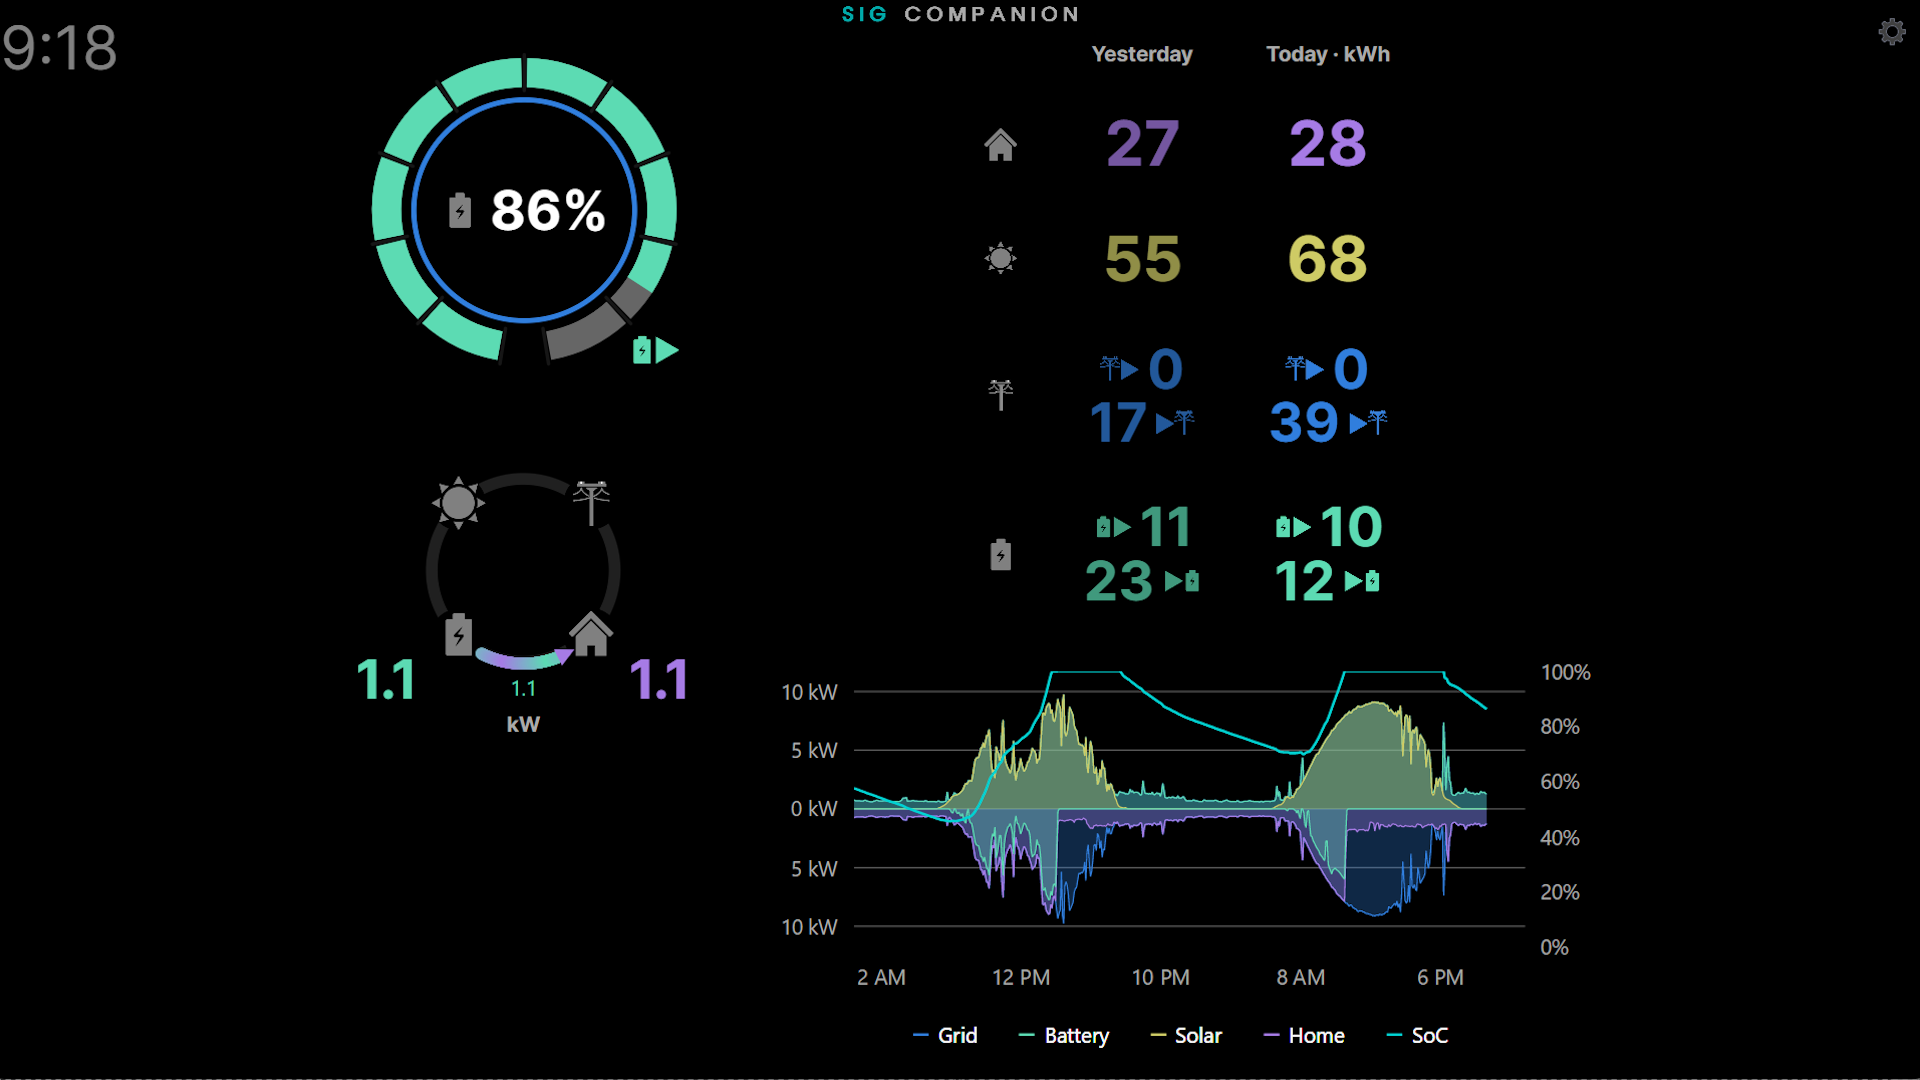
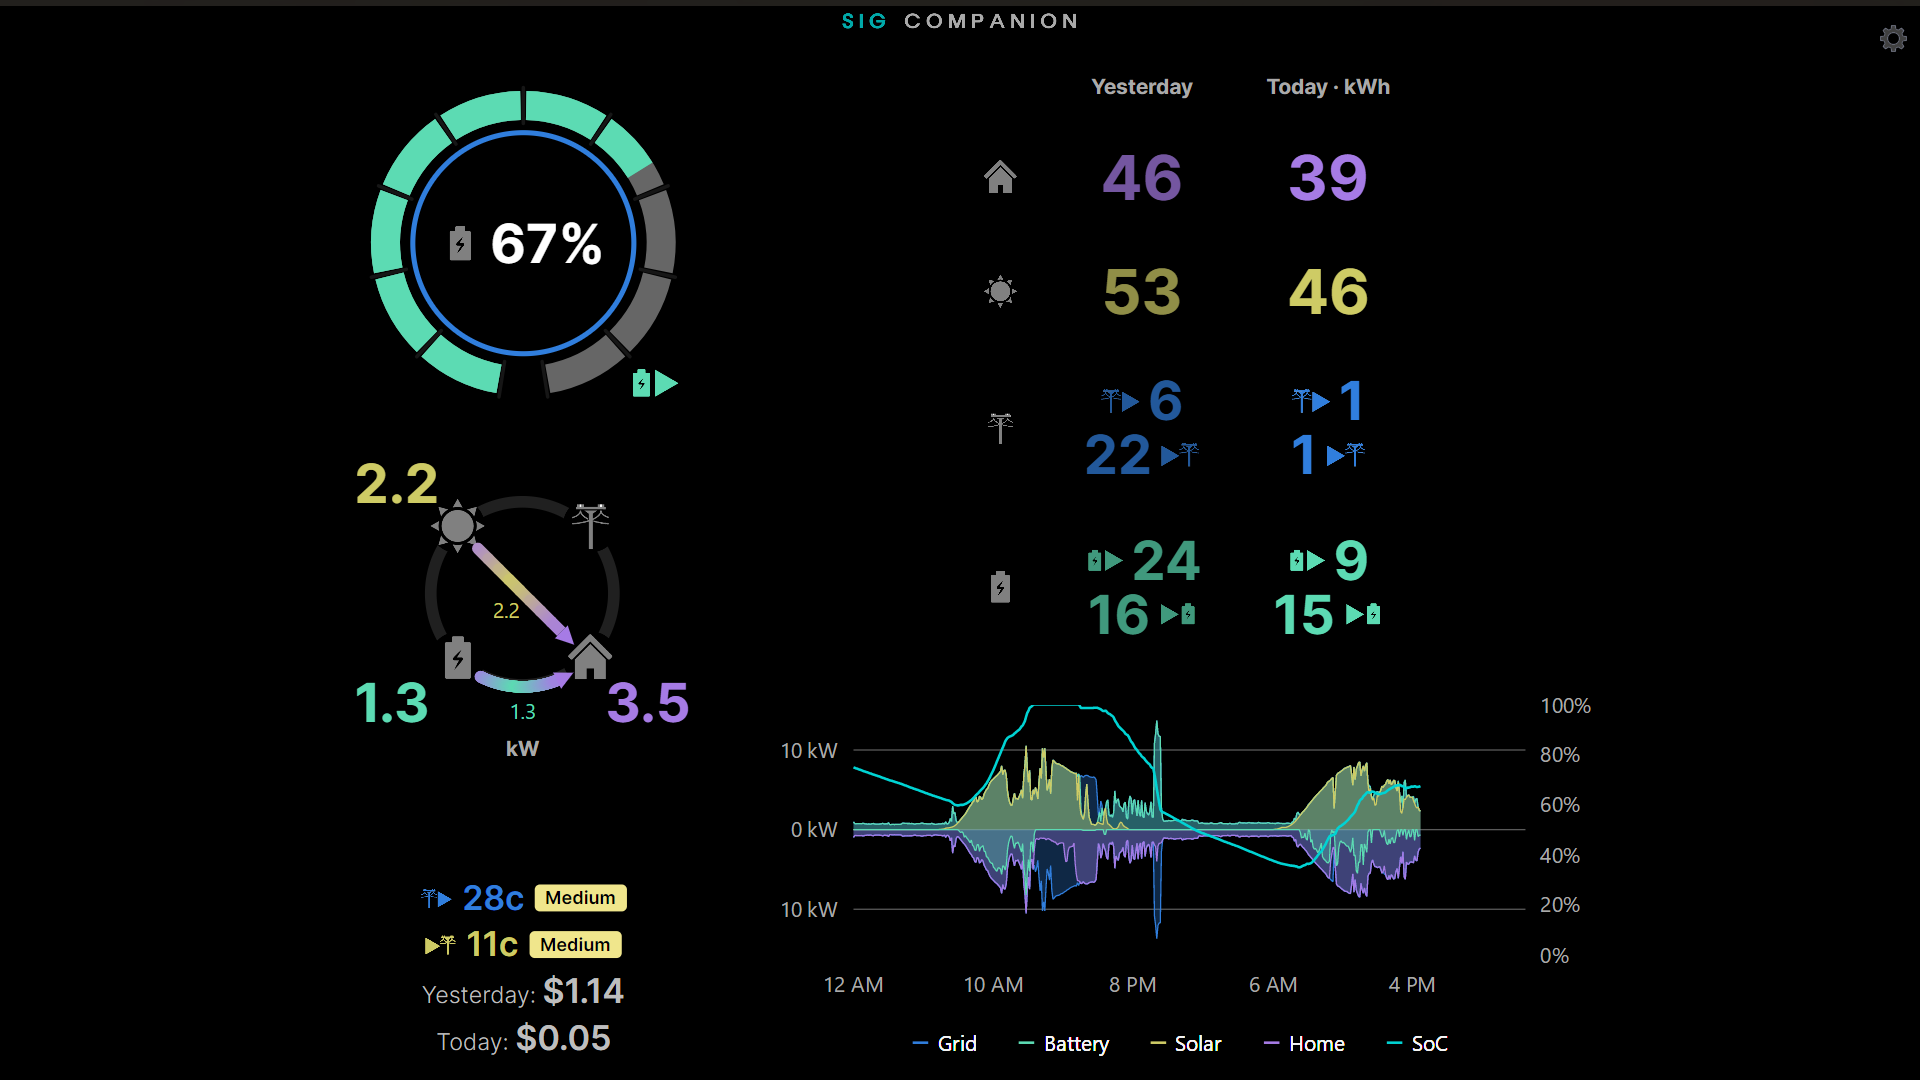
1.2 release

diff --git a/SigCompanion.Lib.Tests/SigenergyEnergyPriceProviderTests.cs b/SigCompanion.Lib.Tests/SigenergyEnergyPriceProviderTests.cs
@@ -1,4 +1,3 @@
-using System.Text.Json;
 using SigCompanion.Lib.EnergyPrices;
 using SigCompanion.Lib.Sigen;
 using SigCompanion.Lib.Sigen.Models;
@@ -19,25 +18,27 @@ public sealed class SigenergyEnergyPriceProviderTests
     }
 
     [Fact]
-    public async Task RefreshPricesYesterdayGridHistoryWithCachedYesterdayTariffs()
+    public async Task RefreshGetsFreshTodayBillAndCachesYesterdayBillWithReversedSigns()
     {
-        const string yesterdayPath = "/electricity-price/api/price-preview/home/123?dt=2026-11-20";
-        const string todayPath = "/electricity-price/api/price-preview/home/123?dt=2026-11-21";
+        const string pricePath = "/electricity-price/api/price-preview/home/123?dt=2026-11-21";
+        const string todayBillPath = "/data-process/sigen/station/statistics/bill?stationId=123&dateFlag=1&startDate=20261121&endDate=20261121";
+        const string yesterdayBillPath = "/data-process/sigen/station/statistics/bill?stationId=123&dateFlag=1&startDate=20261120&endDate=20261120";
         var requests = new List<string>();
+        var todayBillRequests = 0;
         using var client = new HttpClient(new StubHttpHandler(request =>
         {
+            Assert.Equal(HttpMethod.Get, request.Method);
+            Assert.Equal("Bearer test-token", request.Headers.Authorization?.ToString());
             var path = request.RequestUri!.PathAndQuery;
             requests.Add(path);
             return path switch
             {
                 "/device/owner/station/home" => """{"code":0,"data":{"stationId":123,"countryCode":"AU"}}""",
-                todayPath => """{"code":0,"data":{"pricePoints":[{"localTime":"2026-11-21T00:00:00","buyPrice":0.12,"sellPrice":0.04}]}}""",
-                yesterdayPath => """
-                    {"code":0,"data":{"pricePoints":[
-                        {"localTime":"2026-11-20T00:00:00","buyPrice":0.30,"sellPrice":0.06},
-                        {"localTime":"2026-11-20T12:00:00","buyPrice":0.20,"sellPrice":0.10}
-                    ]}}
-                    """,
+                pricePath => """{"code":0,"data":{"pricePoints":[{"localTime":"2026-11-21T00:00:00","buyPrice":0.12,"sellPrice":0.04}]}}""",
+                todayBillPath => ++todayBillRequests == 1
+                    ? """{"code":0,"data":{"stationId":123,"total":-0.05,"saleRevenue":0.04,"purchaseExpense":0.09,"fixedDailyFee":0,"dataSeries":[]}}"""
+                    : """{"code":0,"data":{"total":-0.08}}""",
+                yesterdayBillPath => """{"code":0,"data":{"total":0.20}}""",
                 _ => throw new InvalidOperationException($"Unexpected request: {path}"),
             };
         }));
@@ -45,40 +46,26 @@ public sealed class SigenergyEnergyPriceProviderTests
         api.SetCredentials(new SigenCredentials { AccessToken = "test-token" });
         var provider = new SigenergyEnergyPriceProvider(api);
         var now = new DateTime(2026, 11, 21, 0, 10, 0);
-        using var today = JsonDocument.Parse("""
-            {"dataSeries":[{"id":"GRID","points":[{"time":"20261121 00:00","value":12}]}]}
-            """);
-        using var yesterday = JsonDocument.Parse("""
-            {"dataSeries":[{"id":"GRID","points":[{"time":"20261120 00:00","value":12},{"time":"20261120 12:00","value":-12}]}]}
-            """);
-        var history = new SigenHistoricalComparisonSnapshot
-        {
-            TodayDate = DateOnly.FromDateTime(now),
-            YesterdayDate = DateOnly.FromDateTime(now.AddDays(-1)),
-            StationCards = [],
-            TodayChartData = today.RootElement,
-            YesterdayChartData = yesterday.RootElement,
-        };
 
-        var first = await provider.GetPricesAsync(history, now);
-        var second = await provider.GetPricesAsync(history, now.AddMinutes(2));
+        var first = await provider.GetPricesAsync(now);
+        var second = await provider.GetPricesAsync(now.AddMinutes(2));
 
-        Assert.Equal(0.12m, first.TodayTotalDollars);
-        Assert.Equal(0.20m, first.YesterdayTotalDollars);
-        Assert.Equal(first, second);
-        Assert.Equal(new[] { "/device/owner/station/home", todayPath, yesterdayPath, todayPath }, requests);
+        Assert.Equal(0.05m, first.TodayTotalDollars);
+        Assert.Equal(-0.20m, first.YesterdayTotalDollars);
+        Assert.Equal(0.08m, second.TodayTotalDollars);
+        Assert.Equal(first.YesterdayTotalDollars, second.YesterdayTotalDollars);
+        Assert.Equal(new[] { "/device/owner/station/home", pricePath, todayBillPath, yesterdayBillPath, pricePath, todayBillPath }, requests);
     }
 
     [Fact]
-    public async Task RefreshCachesStationAndSelectsLastPriceStrictlyBeforeNow()
+    public async Task RefreshSelectsLastPriceStrictlyBeforeNowAndRetriesMissingYesterdayBill()
     {
-        var requests = new List<string>();
+        var yesterdayBillRequests = 0;
         using var client = new HttpClient(new StubHttpHandler(request =>
         {
             Assert.Equal(HttpMethod.Get, request.Method);
             Assert.Equal("Bearer test-token", request.Headers.Authorization?.ToString());
             var path = request.RequestUri!.PathAndQuery;
-            requests.Add(path);
             return path switch
             {
                 "/device/owner/station/home" =>
@@ -91,6 +78,12 @@ public sealed class SigenergyEnergyPriceProviderTests
                         {"localTime":"2026-11-21T00:15:00","buyPrice":0.99,"sellPrice":0.99}
                     ]}}
                     """,
+                "/data-process/sigen/station/statistics/bill?stationId=2611171411291222&dateFlag=1&startDate=20261121&endDate=20261121" =>
+                    """{"code":0,"data":{"total":0}}""",
+                "/data-process/sigen/station/statistics/bill?stationId=2611171411291222&dateFlag=1&startDate=20261120&endDate=20261120" =>
+                    ++yesterdayBillRequests == 1
+                        ? """{"code":0,"data":{}}"""
+                        : """{"code":0,"data":{"total":0.10}}""",
                 _ => throw new InvalidOperationException($"Unexpected request: {path}"),
             };
         }));
@@ -100,17 +93,17 @@ public sealed class SigenergyEnergyPriceProviderTests
             EnergyPriceProviderFactory.Create(EnergyPriceProviderFactory.Sigenergy, api));
         var now = new DateTime(2026, 11, 21, 0, 10, 0);
 
-        var first = await provider.GetPricesAsync(null, now);
-        var second = await provider.GetPricesAsync(null, now.AddSeconds(1));
+        var first = await provider.GetPricesAsync(now);
+        var second = await provider.GetPricesAsync(now.AddSeconds(1));
 
-        Assert.Equal(3, requests.Count);
-        Assert.Equal("/device/owner/station/home", requests[0]);
-        Assert.Equal(requests[1], requests[2]);
         Assert.Equal(8m, first.Buy.CentsPerKwh);
         Assert.Equal(3m, first.Sell.CentsPerKwh);
         Assert.Empty(first.Buy.PriceLevelName);
-        Assert.Null(first.TodayTotalDollars);
+        Assert.Equal(0m, first.TodayTotalDollars);
+        Assert.Null(first.YesterdayTotalDollars);
         Assert.Equal(20m, second.Buy.CentsPerKwh);
+        Assert.Equal(-0.10m, second.YesterdayTotalDollars);
+        Assert.Equal(2, yesterdayBillRequests);
         Assert.Equal("en-GB", provider.CurrencyCulture.Name);
         Assert.Equal("p", provider.MinorUnitSuffix);
     }

diff --git a/SigCompanion.Lib/EnergyPrices/SigenergyEnergyPriceProvider.cs b/SigCompanion.Lib/EnergyPrices/SigenergyEnergyPriceProvider.cs
@@ -1,7 +1,6 @@
 using System.Globalization;
 using System.Text.Json;
 using SigCompanion.Lib.Sigen;
-using SigCompanion.Lib.Sigen.Models;
 
 namespace SigCompanion.Lib.EnergyPrices;
 
@@ -14,10 +13,9 @@ public sealed class SigenergyEnergyPriceProvider(SigenUiApi api) : IEnergyPriceP
     public string MinorUnitSuffix => _station?.MinorUnitSuffix ?? string.Empty;
 
     public Task<EnergyPriceSnapshot> GetPricesAsync(CancellationToken cancellationToken = default) =>
-        GetPricesAsync(null, DateTime.Now, cancellationToken);
+        GetPricesAsync(DateTime.Now, cancellationToken);
 
-    public async Task<EnergyPriceSnapshot> GetPricesAsync(SigenHistoricalComparisonSnapshot? history,
-        DateTime now, CancellationToken cancellationToken = default)
+    public async Task<EnergyPriceSnapshot> GetPricesAsync(DateTime now, CancellationToken cancellationToken = default)
     {
         var station = await GetStationAsync(cancellationToken).ConfigureAwait(false);
         var today = DateOnly.FromDateTime(now);
@@ -32,29 +30,35 @@ public sealed class SigenergyEnergyPriceProvider(SigenUiApi api) : IEnergyPriceP
                 continue;
             }
 
-            decimal? yesterdayTotal = null;
-            if (history is not null && history.YesterdayDate == today.AddDays(-1) &&
-                history.YesterdayChartData.ValueKind == JsonValueKind.Object)
-            {
-                try
-                {
-                    var yesterday = await api.GetHistoricalHomePricePreviewAsync(station.Id, history.YesterdayDate, cancellationToken)
-                        .ConfigureAwait(false);
-                    yesterdayTotal = GridEnergyCost.CalculateYesterday(history, now, ReadPrices(yesterday));
-                }
-                catch (Exception) when (!cancellationToken.IsCancellationRequested)
-                {
-                    // Yesterday's prices are optional; still return today's data.
-                }
-            }
+            var todayTotal = await TryGetBillCostAsync(station.Id, today, historical: false, cancellationToken)
+                .ConfigureAwait(false);
+            var yesterdayTotal = await TryGetBillCostAsync(station.Id, today.AddDays(-1), historical: true, cancellationToken)
+                .ConfigureAwait(false);
 
             return new EnergyPriceSnapshot(
                 new EnergyTariff(point.BuyPrice * 100m, "General usage", string.Empty, 0),
                 new EnergyTariff(point.SellPrice * 100m, "Feed-in", string.Empty, 0),
-                history is null ? null : GridEnergyCost.CalculateToday(history, now, prices), yesterdayTotal);
+                todayTotal, yesterdayTotal);
         }
 
         throw new InvalidOperationException("Sigenergy returned no price point before the current local time.");
+    }
+
+    private async Task<decimal?> TryGetBillCostAsync(long stationId, DateOnly date, bool historical,
+        CancellationToken cancellationToken)
+    {
+        try
+        {
+            var total = await (historical
+                ? api.GetHistoricalDailyBillTotalAsync(stationId, date, cancellationToken)
+                : api.GetDailyBillTotalAsync(stationId, date, cancellationToken)).ConfigureAwait(false);
+            return -total;
+        }
+        catch (Exception) when (!cancellationToken.IsCancellationRequested)
+        {
+            // A missing bill should not hide the current tariffs.
+            return null;
+        }
     }
 
     private static (DateTime LocalTime, decimal BuyPrice, decimal SellPrice)[] ReadPrices(JsonElement data) =>

diff --git a/SigCompanion.Lib/Sigen/SigenCachedApiClient.cs b/SigCompanion.Lib/Sigen/SigenCachedApiClient.cs
@@ -44,9 +44,13 @@ public sealed class SigenCachedApiClient
     internal Task<JsonElement> GetHomePricePreviewAsync(long stationId, DateOnly date, CancellationToken cancellationToken) =>
         _innerClient.GetHomePricePreviewAsync(stationId, date, cancellationToken);
 
-    internal Task<JsonElement> GetHistoricalHomePricePreviewAsync(long stationId, DateOnly date, CancellationToken cancellationToken) =>
-        GetOrSetAsync($"station:{stationId}:price-preview:{date.DayNumber}", TimeSpan.FromHours(1),
-            token => _innerClient.GetHomePricePreviewAsync(stationId, date, token), cancellationToken);
+    internal Task<decimal> GetDailyBillTotalAsync(long stationId, DateOnly date, CancellationToken cancellationToken) =>
+        _innerClient.GetDailyBillTotalAsync(stationId, date, cancellationToken);
+
+    internal Task<decimal> GetHistoricalDailyBillTotalAsync(long stationId, DateOnly date, TimeSpan cachePeriod,
+        CancellationToken cancellationToken) =>
+        GetOrSetAsync($"station:{stationId}:bill:{date.DayNumber}", cachePeriod,
+            token => _innerClient.GetDailyBillTotalAsync(stationId, date, token), cancellationToken);
 
     public Task<SigenApiEnvelope<string>> GetSystemListAsync(
         TimeSpan cachePeriod,

diff --git a/SigCompanion.Lib/Sigen/SigenUiApi.cs b/SigCompanion.Lib/Sigen/SigenUiApi.cs
@@ -39,8 +39,11 @@ public sealed class SigenUiApi
     internal Task<JsonElement> GetHomePricePreviewAsync(long stationId, DateOnly date, CancellationToken cancellationToken) =>
         _cachedApiClient.GetHomePricePreviewAsync(stationId, date, cancellationToken);
 
-    internal Task<JsonElement> GetHistoricalHomePricePreviewAsync(long stationId, DateOnly date, CancellationToken cancellationToken) =>
-        _cachedApiClient.GetHistoricalHomePricePreviewAsync(stationId, date, cancellationToken);
+    internal Task<decimal> GetDailyBillTotalAsync(long stationId, DateOnly date, CancellationToken cancellationToken) =>
+        _cachedApiClient.GetDailyBillTotalAsync(stationId, date, cancellationToken);
+
+    internal Task<decimal> GetHistoricalDailyBillTotalAsync(long stationId, DateOnly date, CancellationToken cancellationToken) =>
+        _cachedApiClient.GetHistoricalDailyBillTotalAsync(stationId, date, HistoricalYesterdayCachePeriod, cancellationToken);
 
     public async Task<IReadOnlyList<SigenSystemReference>> GetSystemsAsync(CancellationToken cancellationToken = default)
     {

diff --git a/SigCompanion.Lib/Sigen/SigenApiClient.cs b/SigCompanion.Lib/Sigen/SigenApiClient.cs
@@ -265,6 +265,20 @@ public sealed class SigenApiClient
             new Dictionary<string, string> { ["dt"] = date.ToString("yyyy-MM-dd", CultureInfo.InvariantCulture) },
             cancellationToken);
 
+    internal async Task<decimal> GetDailyBillTotalAsync(long stationId, DateOnly date, CancellationToken cancellationToken)
+    {
+        var day = date.ToString("yyyyMMdd", CultureInfo.InvariantCulture);
+        var data = await GetAuthorizedDataAsync("/data-process/sigen/station/statistics/bill",
+            new Dictionary<string, string>
+            {
+                ["stationId"] = stationId.ToString(CultureInfo.InvariantCulture),
+                ["dateFlag"] = "1",
+                ["startDate"] = day,
+                ["endDate"] = day,
+            }, cancellationToken).ConfigureAwait(false);
+        return data.GetProperty("total").GetDecimal();
+    }
+
     private async Task<JsonElement> GetAuthorizedDataAsync(string path, IReadOnlyDictionary<string, string>? query,
         CancellationToken cancellationToken)
     {

diff --git a/SigCompanion/ViewModels/MainViewModel.cs b/SigCompanion/ViewModels/MainViewModel.cs
@@ -478,7 +478,7 @@ namespace SigCompanion.ViewModels
                     ? DemoDataProvider.GetEnergyPriceProvider()
                     : (_sigenergyPriceProvider ??= EnergyPriceProviderFactory.Create(EnergyPriceProviderFactory.Sigenergy, _sigenUiApi));
                 var prices = provider is SigenergyEnergyPriceProvider sigenergy
-                    ? await sigenergy.GetPricesAsync(_latestDashboardHistory, GetSigenergyLocalTime(), cancellationToken)
+                    ? await sigenergy.GetPricesAsync(GetSigenergyLocalTime(), cancellationToken)
                     : await provider.GetPricesAsync(cancellationToken);
                 cancellationToken.ThrowIfCancellationRequested();
                 if (ShowEnergyPrices && ReferenceEquals(_configuredEnergyPriceProvider, provider))

diff --git a/SigCompanion/Telemetry.cs b/SigCompanion/Telemetry.cs
@@ -167,7 +167,8 @@ namespace SigCompanion
                 { "EnableAnimations", settings.EnableAnimations.ToString() },
                 { "ChartData", settings.ChartData },
                 { "Region", settings.Region ?? string.Empty },
-                { "SavePassword", settings.SavePassword.ToString() }
+                { "SavePassword", settings.SavePassword.ToString() },
+                { "EnergyPrices", settings.ShowEnergyPrices.ToString() },
             };
         }
 
